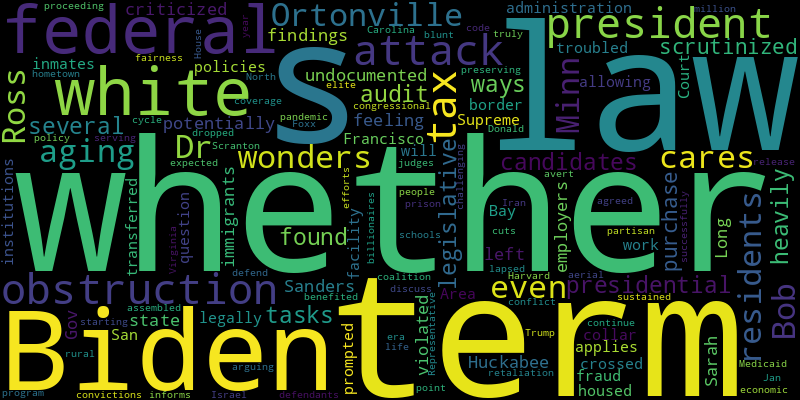
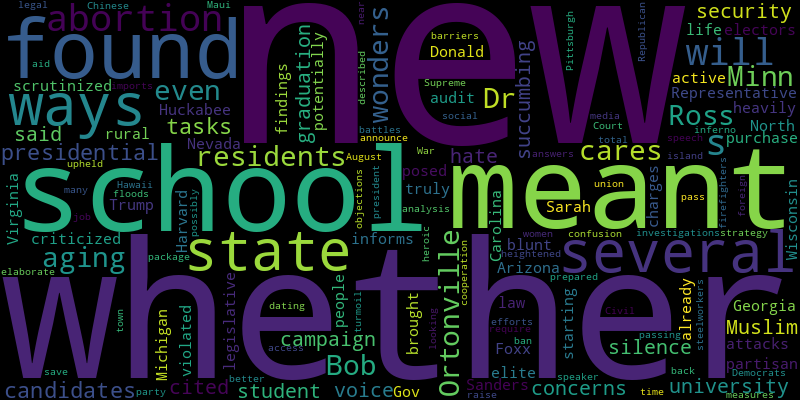
chore(bot): 😂 auto commit

diff --git a/README.md b/README.md
@@ -2,41 +2,41 @@
 Auto RSS New York Times and Generate Word Cloud
 
 ## New York Times Global News
-* A flurry of talks sought to avert a wider war after Iran’s weekend attack. Israeli officials were considering a range of retaliatory moves, including a military strike.
+* Since an attack by Iran, world leaders have been working to persuade Israel to avoid a response that could drag the region into a broader war.
 * Israel’s restless allies have voiced anger over the death toll in Gaza, but when their archnemesis launched a missile barrage, they set it aside. At least for the moment.
+* Clerics in Indonesia are issuing fatwas, retrofitting mosques and imploring congregants to help turn the tide against climate change.
+* The unexpected relocation was attributed to a heat wave, and came as the military government is facing increasingly emboldened rebel forces.
+* The U.K. government hopes to pass a bill this week, two years after the plan was first unveiled, in an effort to override a ruling by Britain’s highest court that Rwanda is not safe for refugees.
+* A year’s worth of rain fell in one day in some areas across Oman and the United Arab Emirates, bringing cities to a standstill.
+* American officials sought to reassure the U.K. about Julian Assange’s treatment should the former WikiLeaks founder, who has been indicted by the U.S., be sent there.
 * The shortages add up to a dire situation for Ukraine in the third year of the war, presenting commanders with near impossible choices on how to deploy limited resources.
-* Chancellor Olaf Scholz tried to promote German business interests while delivering warnings from Europe about trade and geopolitical tensions.
-* The 17th-century building, one of the city’s best-known structures, was once the financial center of Denmark.
-* A shrub in impoverished Nepal now supplies the raw material for the bank notes used in Asia’s most sophisticated financial system.
-* For decades, Germany allowed early abortions even while keeping them illegal. A government-appointed commission says the system is “untenable.”
-* As cases proliferate, opponents fear the Alternative for Germany party is becoming a tool of Russian influence operations to undermine support for Ukraine.
-* The fighting between two generals leading competing military factions has now been going on for a year, leading to massacres, hunger and a massive wave of people fleeing their homes.
-* All but three of the 18 people killed or injured Saturday were women. While the attacker’s motive may never be known, many said the episode spoke to a larger problem.
+* A mayor in Brussels gave no explanation of why he thought it necessary to try to stop a conservative gathering from taking place, other than saying he wanted to “guarantee public safety.”
+* “We will be attacked,” the official responsible for fending off cyberthreats said. To prepare, organizers have been hosting war games and paying “bug bounties” to hackers.
 
 ![Global](./global.png)
 ## New York Times United States News
 * Dr. Bob Ross cares for the aging residents of Ortonville, Minn, even as he wonders whether he, and the presidential candidates, are up to all their tasks.
-* The legislative audit found several ways that the heavily scrutinized purchase potentially violated state law. Gov. Sarah Huckabee Sanders criticized the findings.
-* Long-term undocumented immigrants — and their employers — are feeling left out by Biden administration policies allowing most who just crossed the border to work legally.
-* About 600 inmates housed at the troubled facility in the San Francisco Bay Area will be transferred to other federal institutions.
-* The question for the Supreme Court is whether a 2002 law prompted by white-collar fraud applies to the obstruction of the congressional proceeding on Jan. 6, 2021.
-* In Scranton, his hometown, the president is expected to discuss the tax code in terms of economic fairness, arguing that Donald Trump’s tax cuts benefited billionaires.
-* In the year after a pandemic-era policy preserving Medicaid coverage lapsed, more than 20 million people were dropped from the program at some point.
+* The university cited security concerns at the graduation. But the student, who is Muslim, said the school was “succumbing to a campaign of hate meant to silence my voice.”
 * Representative Virginia Foxx is a blunt partisan. But her life in rural North Carolina informs her attacks against these schools, starting with whether Harvard is truly “elite.”
-* Federal judges have agreed to release about 10 defendants who were serving prison terms because of their convictions under an obstruction law.
-* President Biden successfully assembled a coalition to defend Israel against Iran’s aerial attack, but the cycle of retaliation could continue, challenging the White House’s efforts to avert a sustained conflict.
+* The legislative audit found several ways that the heavily scrutinized purchase potentially violated state law. Gov. Sarah Huckabee Sanders criticized the findings.
+* Georgia, Michigan and Nevada have already brought charges against people who posed as electors for Donald Trump, and Arizona and Wisconsin have active investigations.
+* At a time of heightened confusion and legal battles over access to abortion, women are looking to social media for answers.
+* A new analysis of the August inferno on the island of Maui in Hawaii described heroic efforts by firefighters. But it also found many ways the town could have been better prepared.
+* The state has been in turmoil since its Supreme Court upheld a near-total abortion ban dating back to the Civil War.
+* In a speech to union steelworkers in Pittsburgh, the president will announce several new measures meant to raise new barriers against floods of Chinese imports.
+* The Republican speaker’s elaborate strategy for passing a foreign aid package over his party’s objections will require the cooperation of Democrats to pass it — and possibly save his job.
 
 ![US](./usnews.png)
 ## New York Times Asia News
+* The unexpected relocation was attributed to a heat wave, and came as the military government is facing increasingly emboldened rebel forces.
+* In a speech to union steelworkers in Pittsburgh, the president will announce several new measures meant to raise new barriers against floods of Chinese imports.
+* Clerics in Indonesia are issuing fatwas, retrofitting mosques and imploring congregants to help turn the tide against climate change.
+* The election is a giant undertaking that requires millions of poll workers, voting machines and security forces to cover deserts, mountains, forests and megacities.
+* Plus, Australia’s feral cat problem.
 * Chancellor Olaf Scholz tried to promote German business interests while delivering warnings from Europe about trade and geopolitical tensions.
 * China’s big bet on manufacturing helped to counteract its housing slowdown in the first three months of the year, but other countries are worried about a flood of Chinese goods.
 * Also, Israel weighs a response to Iran and Sudan marks a year of war.
 * He brought worldwide attention to a radical yet elemental form of contemporary dance that emerged in the wake of wartime destruction.
 * All but three of the 18 people killed or injured Saturday were women. While the attacker’s motive may never be known, many said the episode spoke to a larger problem.
-* Lawmakers raising national security concerns and seeking to disconnect a major Chinese firm from U.S. pharmaceutical interests have rattled the biotech industry. The firm is deeply involved in development and manufacturing of crucial therapies for cancer, cystic fibrosis, H.I.V. and other illnesses.
-* A shrub in impoverished Nepal now supplies the raw material for the bank notes used in Asia’s most sophisticated financial system.
-* Also, the Australian authorities are searching for a motive in the deadly stabbing attack.
-* The Timepiece Museum has about 120 clocks of all shapes and sizes on display, out of a total of about 800, with the oldest dating from the 1400s.
-* The announcement comes days after President Biden met jointly with the leaders of Japan and the Philippines to discuss Chinese aggression in the Indo-Pacific region.
 
 ![Asian](./asian.png)
